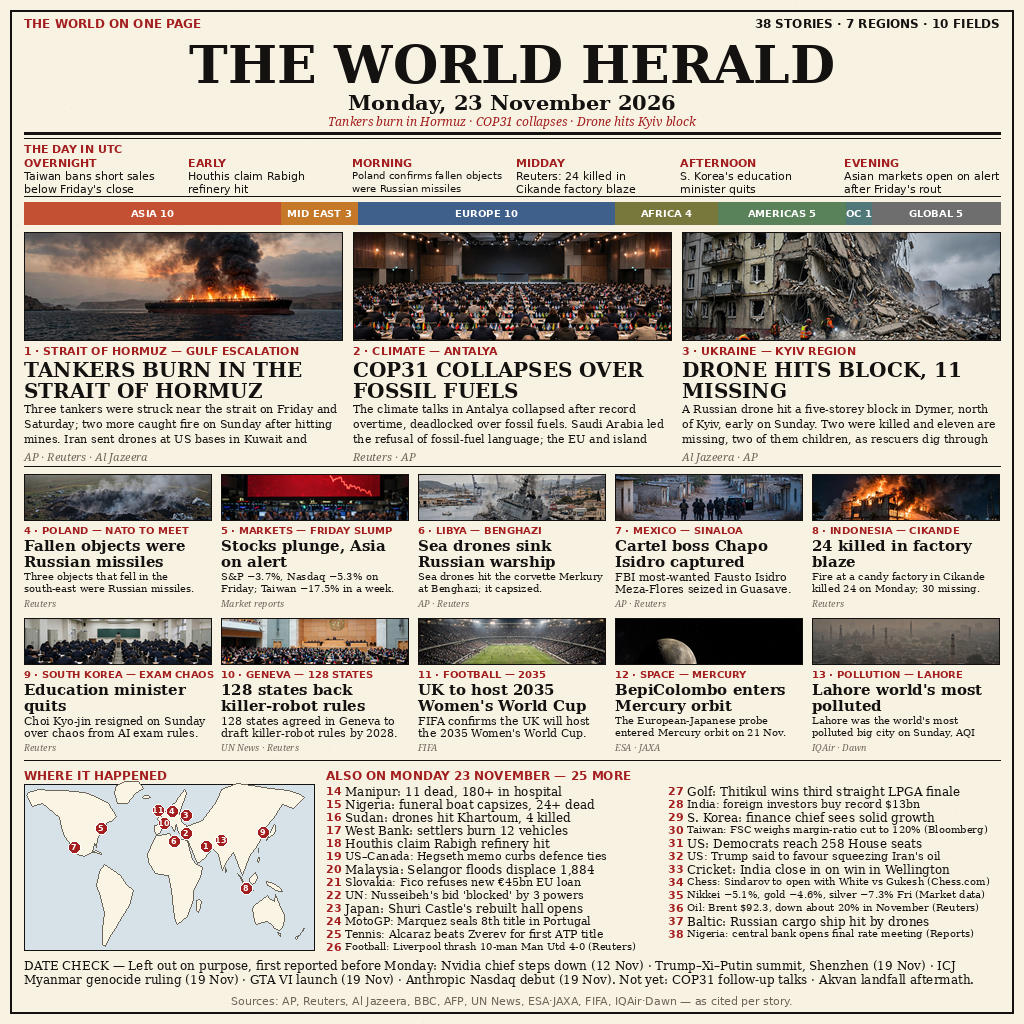
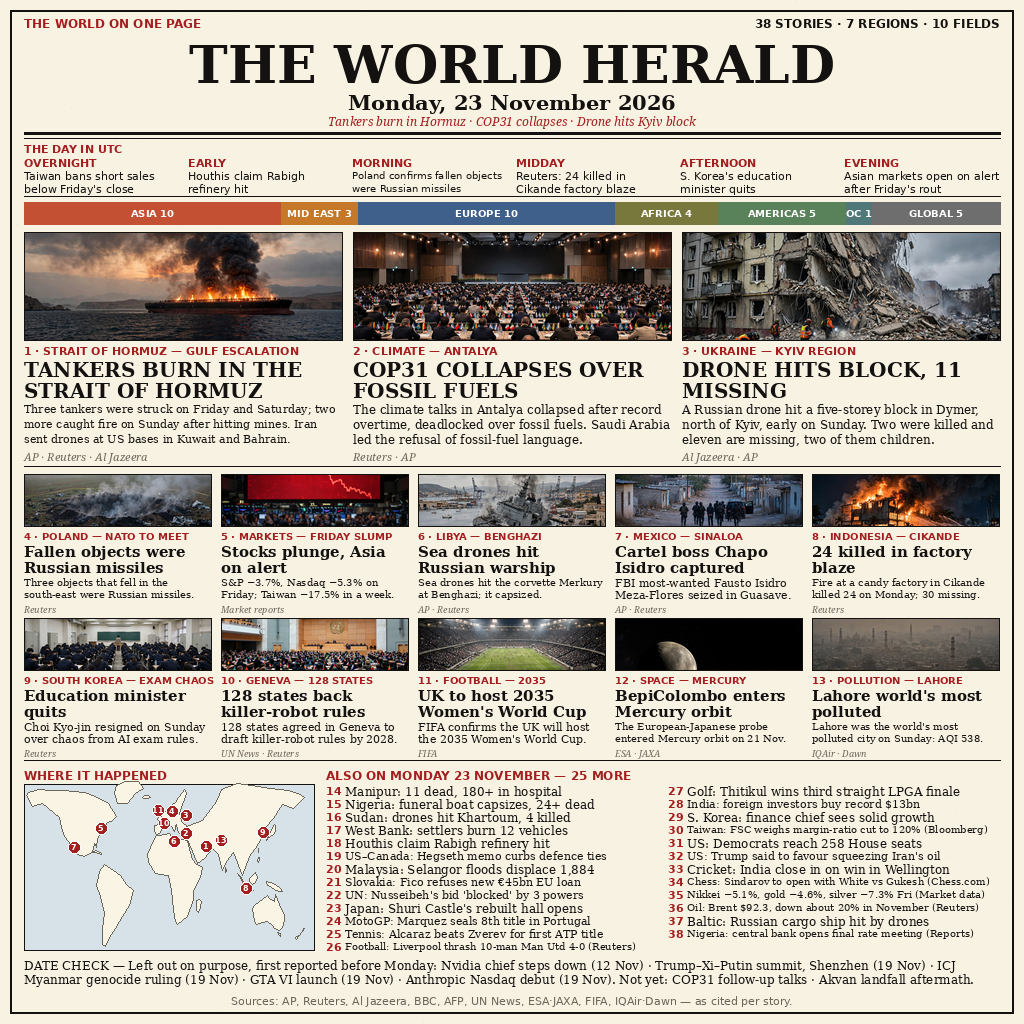
news-image-20261123 v5: fix truncated lead copy

Changed region(s): [[0.0, 0.4688, 0.9688, 0.75], [0.3438, 0.375, 0.9688, 0.4375], [0.0312, 0.375, 0.3125, 0.4375]]

diff --git a/stories.py b/stories.py
@@ -17,6 +17,10 @@ Verification notes, 23 Nov 2026 (web research, morning):
   cargo ship, verified in the Wall Street Journal.
 - Nvidia: Jensen Huang resigned, accepted 11 Nov, announced 12 Nov
   (SEC Form 8-K) — so the DATE CHECK lists it as (12 Nov).
+- v5 copy fixes (blind test of v4): the three lead bodies were cut
+  mid-sentence by the 3-line box, so each is shortened to end on a
+  full stop; #6 headline now says "hit" to match "it capsized";
+  #13 keeps "AQI 538" inside the 2-line box.
 """
 
 MASTHEAD = "THE WORLD HERALD"
@@ -54,9 +58,9 @@ LEADS = [
         "kicker": "STRAIT OF HORMUZ \u2014 GULF ESCALATION",
         "headline": "TANKERS BURN IN THE STRAIT OF HORMUZ",
         "body": (
-            "Three tankers were struck near the strait on Friday and Saturday; "
-            "two more caught fire on Sunday after hitting mines. Iran sent "
-            "drones at US bases in Kuwait and Bahrain; two were hurt in Bahrain."
+            "Three tankers were struck on Friday and Saturday; two more "
+            "caught fire on Sunday after hitting mines. Iran sent drones "
+            "at US bases in Kuwait and Bahrain."
         ),
         "source": "AP \u00b7 Reuters \u00b7 Al Jazeera",
         "art": "tanker",
@@ -68,8 +72,7 @@ LEADS = [
         "body": (
             "The climate talks in Antalya collapsed after record overtime, "
             "deadlocked over fossil fuels. Saudi Arabia led the refusal of "
-            "fossil-fuel language; the EU and island states rejected a text "
-            "without it."
+            "fossil-fuel language."
         ),
         "source": "Reuters \u00b7 AP",
         "art": "cop",
@@ -81,7 +84,7 @@ LEADS = [
         "body": (
             "A Russian drone hit a five-storey block in Dymer, north of Kyiv, "
             "early on Sunday. Two were killed and eleven are missing, two of "
-            "them children, as rescuers dig through the rubble."
+            "them children."
         ),
         "source": "Al Jazeera \u00b7 AP",
         "art": "block",
@@ -113,7 +116,7 @@ GRID = [
     {
         "num": 6,
         "kicker": "LIBYA \u2014 BENGHAZI",
-        "headline": "Sea drones sink Russian warship",
+        "headline": "Sea drones hit Russian warship",
         "body": (
             "Sea drones hit the corvette Merkury at Benghazi; it capsized."
         ),
@@ -185,7 +188,7 @@ GRID = [
         "kicker": "POLLUTION \u2014 LAHORE",
         "headline": "Lahore world's most polluted",
         "body": (
-            "Lahore was the world's most polluted big city on Sunday, AQI 538."
+            "Lahore was the world's most polluted city on Sunday: AQI 538."
         ),
         "source": "IQAir \u00b7 Dawn",
         "art": "smog",

diff --git a/composer.py b/composer.py
@@ -1,4 +1,4 @@
-"""Render THE WORLD HERALD v3, the one-page front page for 23 Nov 2026.
+"""Render THE WORLD HERALD v5, the one-page front page for 23 Nov 2026.
 
 Follows the winning pattern of the 19 November edition: masthead with a
 big date, a THE DAY IN UTC strip, a region-count bar, three big leads
@@ -6,6 +6,8 @@ with press photographs, ten medium grid stories, a world map with
 numbered pins, twenty-five one-line briefs, and a DATE CHECK footer.
 The map is drawn from hand-written coastline polygons in lon/lat
 (v4), projected equirectangular, so its continents are the real ones.
+Grid thumbnails are 52 px tall (v5), up from 46, so the photos read
+better; every lead body ends on a full stop inside its 3-line box.
 
 Thirty-eight stories in all, every one named with its source, from the
 stories in stories.py. All thirteen pictures are generated press
@@ -537,18 +539,18 @@ def render(out_path):
         for col in range(5):
             story = stories.GRID[row * 5 + col]
             x = MARGIN + col * (card_w + card_gap)
-            ART[story["art"]](draw, x, top, card_w, 46)
-            draw.rectangle([x, top, x + card_w, top + 46], outline=INK,
+            ART[story["art"]](draw, x, top, card_w, 52)
+            draw.rectangle([x, top, x + card_w, top + 52], outline=INK,
                            width=1)
-            draw.text((x, top + 50), "%d \u00b7 %s" % (story["num"],
+            draw.text((x, top + 56), "%d \u00b7 %s" % (story["num"],
                       story["kicker"]), font=font("sans_bold", 10), fill=RED)
             hf, hl = fit_lines(draw, story["headline"], "serif_bold", 15,
                                card_w, 2, min_size=13)
-            draw_lines(draw, x, top + 62, hl, hf, INK, 16)
+            draw_lines(draw, x, top + 68, hl, hf, INK, 16)
             bf, bl = fit_lines(draw, story["body"], "serif", 11, card_w, 2,
                                min_size=10)
-            draw_lines(draw, x, top + 96, bl, bf, INK, 12)
-            draw.text((x, top + 123), story["source"],
+            draw_lines(draw, x, top + 102, bl, bf, INK, 12)
+            draw.text((x, top + 129), story["source"],
                       font=font("serif_italic", 9), fill=GREY)
     rule(draw, 760, 1)
 
